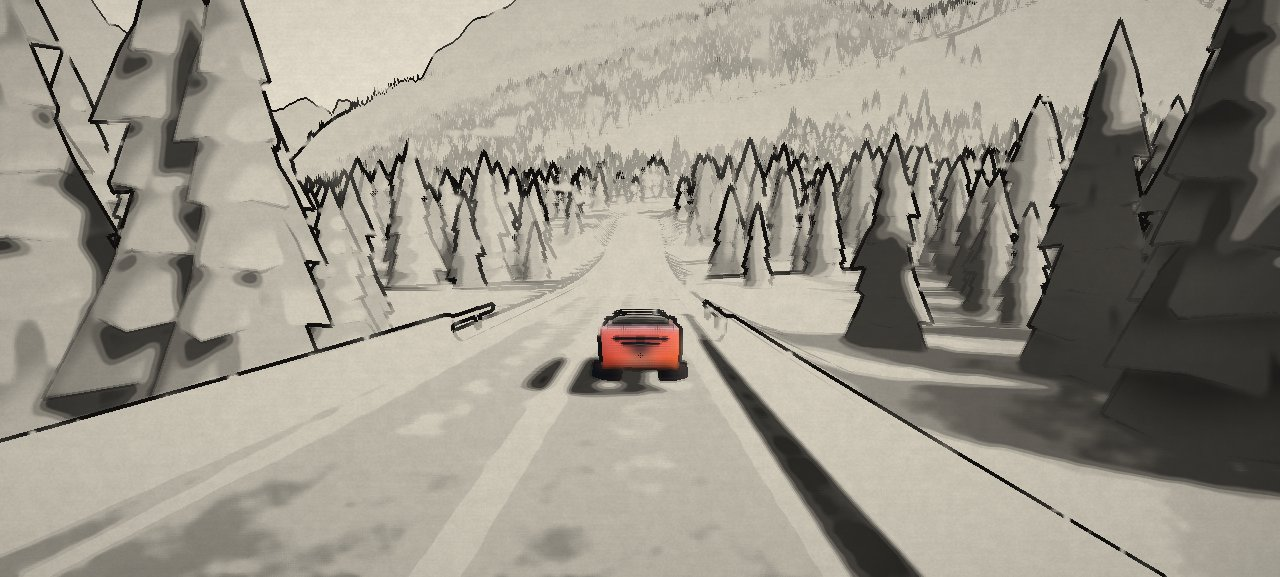
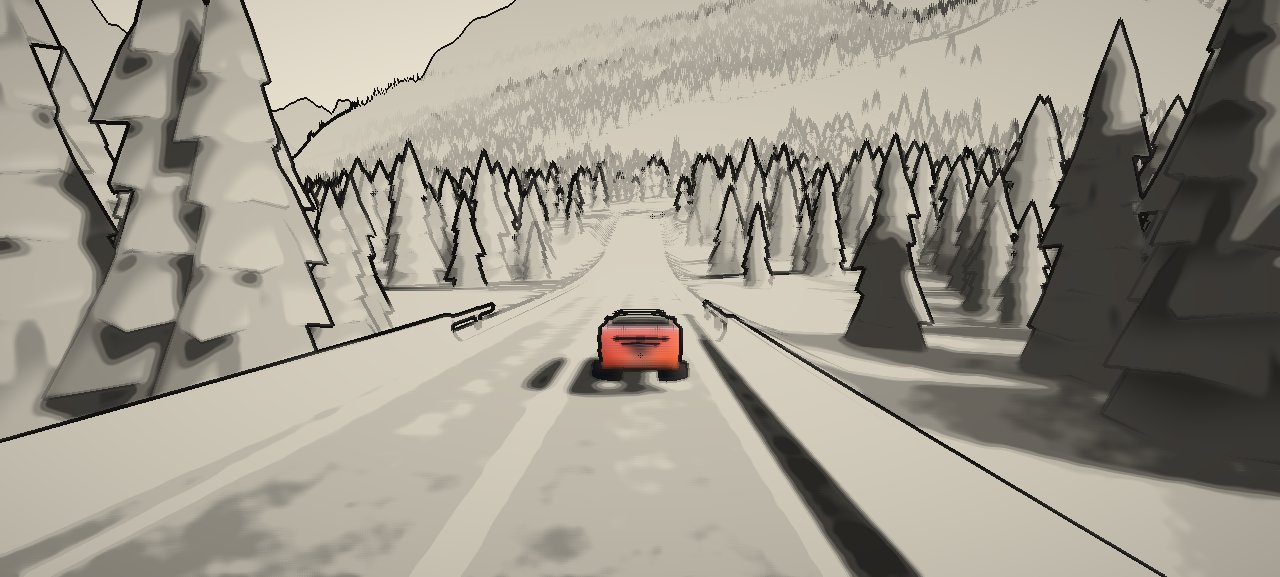
📝 docs: 手绘 redrawn, nothing pinned to the lens
The README says how 手绘 is drawn now (the deep sky and its towers of
cumulus, clear air and blue distance, light blue-grey shade, greens
from three, round strokes, all under a day's sky only), that nothing
in a style is fixed to the screen but the pixel style's dither and
why, and adds the new measure to style_check's row. Its 手绘, 水墨 and
版画 frames are drawn again from the same forest road; 写实, 赛璐璐 and
像素 draw as they did.

The design notes describe 手绘's light, sky and last pass, the
eight-sector Kuwahara filter and its constant tables, the day's-sky
measure, why the environment is baked from the plain sky, and a
paragraph on what was pinned to the screen and how style_check finds
it. The known issue of a 9-10 ms sky bake is gone: it takes 0.3 ms.

diff --git a/docs/design.md b/docs/design.md
@@ -189,9 +189,11 @@ Worker 里有一份同样的地：同一个种子造的 `makeWorldLand`，世界
 
 **画风** `render/style.js`。同一个世界有六种画法：写实、手绘、水墨、赛璐璐、版画、像素。一种画风是一组数，在三处用：
 
-- **材质的光。** 经过 `withAtmosphere` 的材质（地形、路、桥、隧道、树、楼、水、车）都换上自己的直射光、漫射天光和反射函数（`patchLighting`）。three 的光照循环按名字调用它们，所以别的钩子改同样的代码块时互不干扰。阳光按入射角分成暗、中、亮三级，两条分界和软硬都可调；只分漫射，高光照旧算，只是弱一些。背光一面的天光染成蓝紫。投影的软边收硬。车的材质在 alpha 里给自己做个记号（0.5），玻璃不做，它透出后面的东西。
-- **天空。** 天顶更深；云换成一团团的积云，边缘利落，向阳一面白，背阴一面灰紫，地平线上一圈云堤。环境贴图从同一片天画出来，车漆里映的也是这些云。
-- **最后一道 pass。** 在调色之后，读调好的画面和场景的深度。笔触：Kuwahara 滤波，每个像素取四个象限里最平的那块的均值，平处更平，边缘不糊。平涂：只和深度相差 3% 以内的邻居求平均，草和岩石的纹理没了，东西的边还在。墨线：深度跳变处是轮廓，深度的坡度折断处是折线，随距离淡出；手绘只给车勾线（读 alpha 里的记号），赛璐璐的线是所勾之物本身压暗的颜色，水墨的线粗细不匀，还会枯。墨色：五级墨加纸，越暗墨越浓，淡墨最浓到八成，比线浅；天（深度在远平面上）和雾留白；车留着自己的颜色。版画：暗处印靛蓝，亮处留纸，亮度切成四级、色相不变，天从顶上往下晕开一道靛蓝。像素：屏幕高约 180 格，每格是整数个像素，边缘利落；每通道八级，4×4 有序抖动。最后是纸纹和暗角。手绘还让远处一层层变蓝、中间调提亮、绿色在亮处偏暖暗处偏冷。
+- **材质的光。** 经过 `withAtmosphere` 的材质（地形、路、桥、隧道、树、楼、水、车）都换上自己的直射光、漫射天光和反射函数（`patchLighting`）。three 的光照循环按名字调用它们，所以别的钩子改同样的代码块时互不干扰。阳光按入射角分成暗、中、亮三级，两条分界和软硬都可调；只分漫射，高光照旧算，只是弱一些。背光一面的天光染成蓝紫。投影的软边收硬。车的材质在 alpha 里给自己做个记号（0.5），玻璃不做，它透出后面的东西。手绘的阳光略暖；背阴处的天光连同环境贴图那一份一起提亮（环境那份 1.55–1.8 倍），影子是浅的蓝灰，不发黑；沥青这样最暗的灰（材质用 `userData.styleLift` 打开）提亮一点、偏暖，越暗提得越多，深浅次序不变。
+- **天空。** 天顶更深；云换成一团团的积云，边缘利落，向阳一面白，背阴一面灰紫，地平线上一圈云堤。环境贴图从同一片天画出来，车漆里映的也是这些云。手绘的天更饱满，深蓝一直压到地平线附近：天是在曝光之前画的，浅蓝经过曝光会洗成白。它的积云少一些、更白，背阴一面更暗，曝光和色调曲线之后还留得住；地平线上再立九座积云塔，每座是十四团边缘起伏的云堆成的，最前面的一团给出法线，按太阳打光，只分亮暗两级，云团之间的褶皱和底部压暗，逆光时一圈亮边，脚下没进雾里。这些只画在白天的天上：天顶的线性亮度在 0.02–0.06 之间从夜过渡到昼，夜里的城市、地狱、太空留着自己的天，远处也不变蓝。手绘的环境贴图从原来那片天画（云还在里面）：照着深蓝的天，灰色的路面成了藏青。
+- **最后一道 pass。** 在调色之后，读调好的画面和场景的深度。笔触：Kuwahara 滤波，在半径 4 像素的圆里分八个扇区，相邻扇区重叠一半，每个扇区按高斯加权求均值和方差，越平的扇区权重越大，平处更平，边缘不糊；扇区是圆的，笔触是一团团圆的，四个方块象限会拉出条纹和方块。49 个采样点各落在哪个扇区、占多少权重，在 JS 里算好写成常量表，着色器里没有反三角函数，也不按变量下标写数组。平涂：只和深度相差 3% 以内的邻居求平均，草和岩石的纹理没了，东西的边还在。墨线：深度跳变处是轮廓，深度的坡度折断处是折线，随距离淡出；手绘只给车勾线（读 alpha 里的记号），赛璐璐的线是所勾之物本身压暗的颜色，水墨的线粗细不匀，还会枯。墨色：五级墨加纸，越暗墨越浓，淡墨最浓到八成，比线浅；天（深度在远平面上）和雾留白；车留着自己的颜色。版画：暗处印靛蓝，亮处留纸，亮度切成四级、色相不变，天从顶上往下晕开一道靛蓝。像素：屏幕高约 180 格，每格是整数个像素，边缘利落；每通道八级，4×4 有序抖动。最后是暗角。手绘还让远处从 150 m 起一层层变蓝，中间调提亮一点，最暗的绿提成深青绿；绿色按原来的亮度重新从三种颜料里取，暗处青绿、中间翠绿、亮处嫩黄绿，偏黄的地方不算绿；最暗的几级不加饱和度，加了会把深灰染成墨蓝。雾只留四分之一（`Game.update` 乘上画风的 `fog`）。
+
+**不钉在屏幕上。** 原来的纸纹、水墨的墨色斑驳和枯笔的噪声都按屏幕坐标取。画面里的世界在动，它们不动，看起来就是镜头上的脏点。现在纸纹和墨斑去掉了；枯笔的噪声用深度还原出世界坐标再取，贴在世界上跟着线走，150–450 m 之间淡掉，远处的线是匀的。只剩像素画风的有序抖动按屏幕取，那是它本身。`style_check` 用相隔半秒的两帧量：写实里两帧都平滑的像素上，画风两帧的细节要是相关，就是钉在屏幕上的图案。原来手绘、水墨、版画是 0.16、0.10、0.21，现在 −0.10、0.03、0.06，门槛 0.09。
 
 写实画风下这些全关：每处改动都在一个 uniform 后面，取写实的值时走原来的代码，最后一道 pass 不画，画面和加画风之前逐位相同（种子 7、660 帧的航拍帧和诊断数据都对得上）。换画风时，所有数在 1.4 s 里平滑地从一组过到另一组，天空每 0.12 s 重画一次环境贴图，到了再画一次。
 
@@ -254,7 +256,7 @@ Worker 里有一份同样的地：同一个种子造的 `makeWorldLand`，世界
 | `tools/game_check.mjs [秒] [seed]` | 无头 Chrome 跑真实页面；检查行驶距离、碰撞、翻车、路面块和几何体数量、树 |
 | `tools/bake_check.mjs` | 真实页面（不是无头运行，那会在页面上烤）等 Worker 起来，把镜头周围和前方 0.5、1.5、3 km 路边的地形块和树块在页面上、在 Worker 里各烤一次，逐位比较；山间那次再换到下一个世界，等路铺回来再比一次。有一个数不同、Worker 加载的地址没带内容哈希、页面报错或 Worker 放弃即失败 |
 | `tools/presentation_check.mjs` | 车轮、转向、车身姿态、镜头滞后确实在动；起步时轮子着地，到速后翻平悬浮；按 10、20、30、40 fps 走帧时镜头仍跟着车 |
-| `tools/style_check.mjs` | 无头跑同一段路，车后的机位，六种画风各一帧：每种都画出东西、和写实不同；水墨除了车没有颜色，车保住写实里的红，纸占一大片但不是全部；手绘和赛璐璐颜色更足、纹理更平；版画在开阔的天上印一道靛蓝；像素是整数像素的方块、每通道八级。再看一次换画风：一半时间时过了一半，路上天空重画不超过 14 次，换回写实后最后一道 pass 关掉，画面和从没换过的那次几乎一样 |
+| `tools/style_check.mjs` | 无头跑同一段路，车后的机位，六种画风各一帧：每种都画出东西、和写实不同；水墨除了车没有颜色，车保住写实里的红，纸占一大片但不是全部；手绘和赛璐璐颜色更足、纹理更平；版画在开阔的天上印一道靛蓝；像素是整数像素的方块、每通道八级。手绘、水墨、版画相隔半秒的两帧里，写实平滑的地方细节不相关（低于 0.09），没有钉在屏幕上的图案。再看一次换画风：一半时间时过了一半，路上天空重画不超过 14 次，换回写实后最后一道 pass 关掉，画面和从没换过的那次几乎一样 |
 | `tools/director_check.mjs [秒] [seed…]` | 无头跑导演镜头，外加一次竖屏、一次种子 7 的高架、种子 7 在城市、地底、天堂、深海、太空各一次，一次潜进深海（世界缩到 1200 m），和一次城市里的航拍（先追车 5 s 再换航拍）；车在画面里的帧少于 98%、被挡住超过 1.5%、出现不带叠化的跳切、镜头钻进地面即失败 |
 | `tools/shot.mjs` | 一次运行里同时出图和诊断数据 |
 | `tools/sound_demo.mjs [秒] [参数] [out.wav]` | 无头开一段车，把这段车的声音离线渲染成 WAV，并打印峰值和均方根电平 |
@@ -268,7 +270,6 @@ Worker 里有一份同样的地：同一个种子造的 `makeWorldLand`，世界
 
 - 岩层只在着色里，几何上没有台阶；崖脚还没有碎石锥。
 - 选线还在主线程上，偶尔一步要 17 ms 左右，会掉一帧。
-- 天空的环境贴图重烘一次要 9–10 ms，地形和森林移进 Worker 以后，最慢的一帧就是它。
 - 一帧 0.75–2.2 M 三角形、300–450 次绘制。
 - 地底的洞顶还没进太阳遮挡。
 - 洞门端墙是平的一块，被山体切得不齐。
